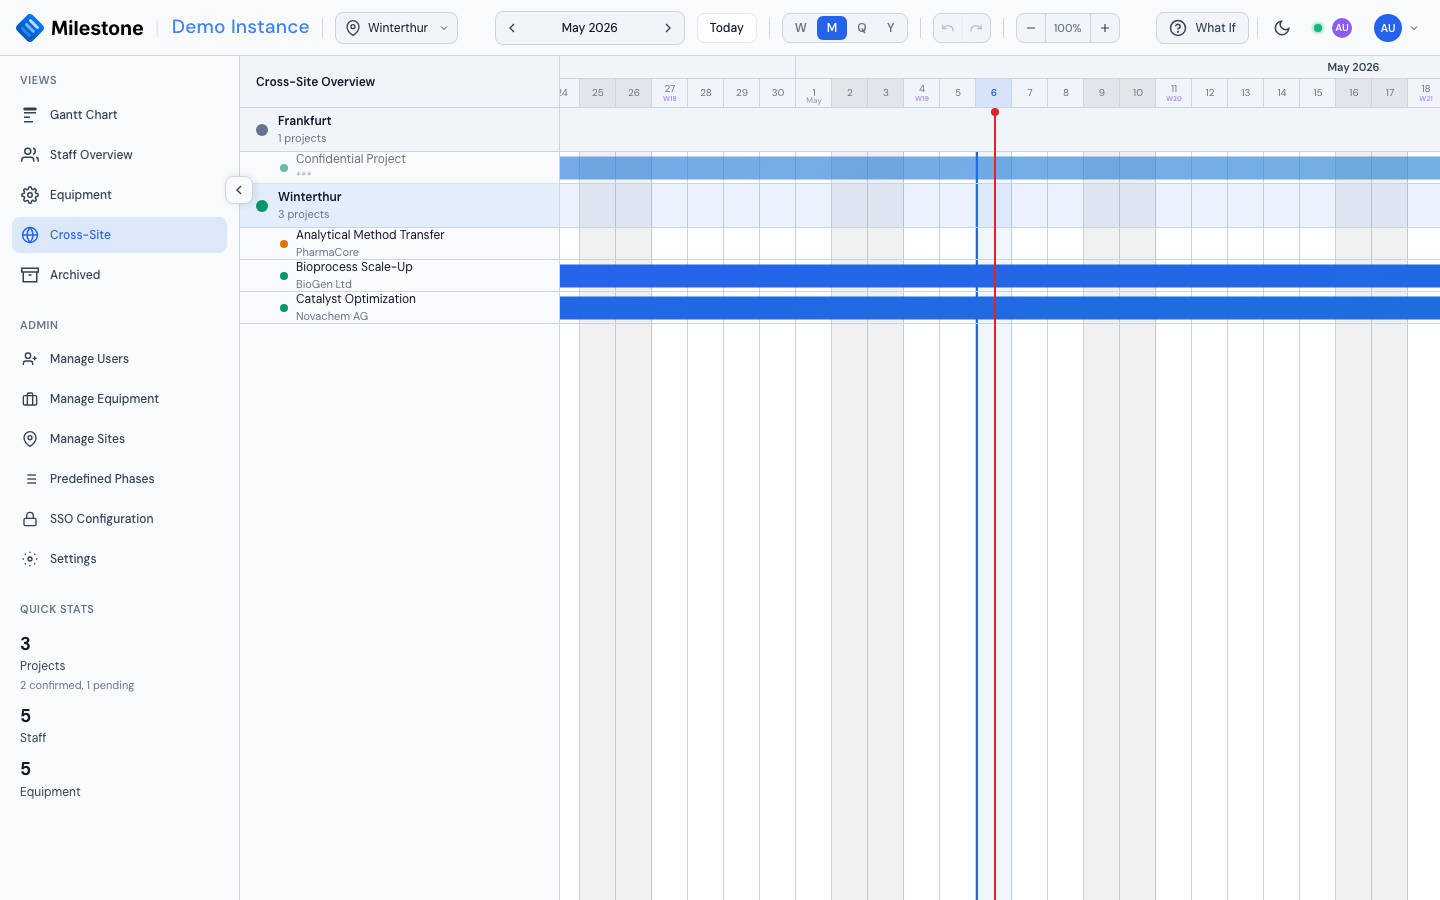
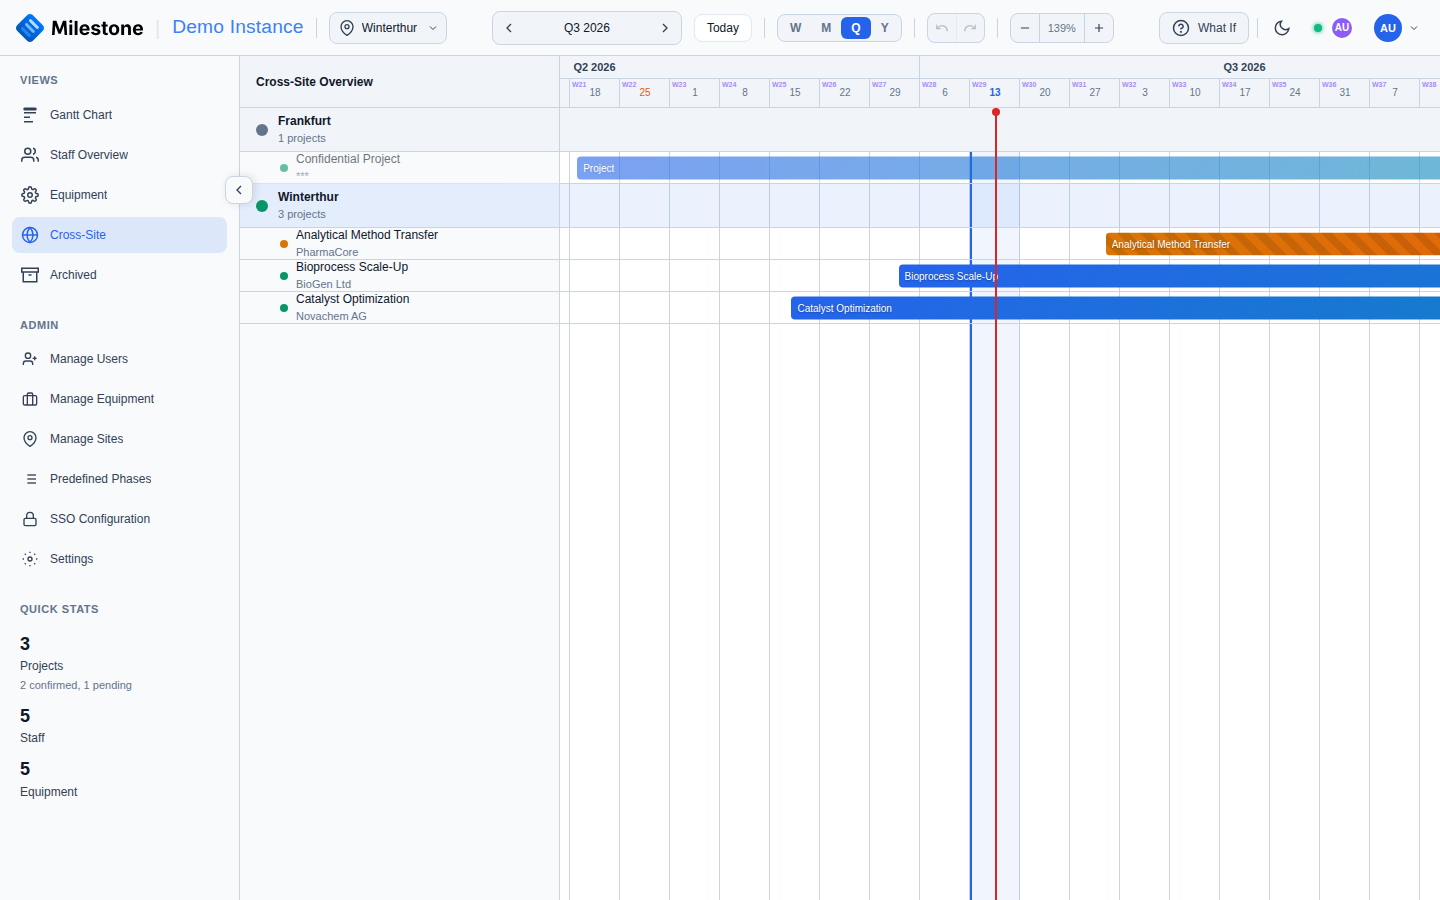
Fix tenant status change 500 for organization-attached tenants
The status endpoint loaded the tenant without eager-loading its
organization; the response builder then lazy-loaded it in async context
and raised MissingGreenlet, so suspending or activating any tenant that
belongs to an organization returned an opaque 500. Re-select with
selectinload after commit, matching the other handlers.

Surfaced by the new admin screenshot script, which now also cleans up
its seeded org attachment even when seeding fails part-way, and uses an
exact "Sign In" match so it doesn't hit "Sign in with Microsoft" when
org SSO is active. Cross-site screenshot re-captured scrolled to today.

diff --git a/scripts/screenshots/capture_admin.py b/scripts/screenshots/capture_admin.py
@@ -80,7 +80,9 @@ def tenant_login(page: Page) -> None:
     if page.locator('input[type="email"]').count() > 0:
         page.fill('input[type="email"]', TENANT_EMAIL)
         page.fill('input[type="password"]', TENANT_PASSWORD)
-        page.click('button:has-text("Sign In")')
+        # Exact match: with organization SSO active the login page also has a
+        # "Sign in with Microsoft" button, which a substring match would hit.
+        page.get_by_role("button", name="Sign In", exact=True).click()
         page.wait_for_load_state("networkidle")
     try:
         page.click('button[aria-label="Switch to light mode"]', timeout=2000)
@@ -153,9 +155,18 @@ def seed_master_state(context: BrowserContext) -> tuple[str, str]:
     return org_id, tenant_id
 
 
-def cleanup_master_state(context: BrowserContext, org_id: str, tenant_id: str) -> None:
-    api(context, "delete", f"/api/admin/organizations/{org_id}/tenants/{tenant_id}")
-    log("[cleanup] demo tenant detached from organization")
+def cleanup_master_state(context: BrowserContext) -> None:
+    """Detach the demo tenant from the screenshot organization (looked up by
+    slug, so this works even after a partial seed)."""
+    orgs = api(context, "get", "/api/admin/organizations")
+    org = next((o for o in orgs if o.get("slug") == ORG_SLUG), None)
+    tenants = api(context, "get", "/api/admin/tenants")
+    tenant = next((t for t in tenants if t.get("slug") == "demo"), None)
+    if org and tenant and tenant.get("organization_id") == org["id"]:
+        api(context, "delete", f"/api/admin/organizations/{org['id']}/tenants/{tenant['id']}")
+        log("[cleanup] demo tenant detached from organization")
+    else:
+        log("[cleanup] nothing to detach")
 
 
 # --------------------------- shots ---------------------------
@@ -229,8 +240,9 @@ def main() -> None:
         admin_page.add_init_script("localStorage.setItem('milestone_theme', 'light')")
         admin_login(admin_page)
 
-        org_id, tenant_id = seed_master_state(admin_ctx)
         try:
+            seed_master_state(admin_ctx)
+
             # Reload so the freshly seeded org/audit data is in the UI.
             admin_page.reload()
             admin_page.wait_for_load_state("networkidle")
@@ -243,7 +255,9 @@ def main() -> None:
             shot_sso_org_precedence(tenant_ctx)
             tenant_ctx.close()
         finally:
-            cleanup_master_state(admin_ctx, org_id, tenant_id)
+            # Runs even after a partial seed — an attached tenant would leave
+            # a "Sign in with Microsoft" button on the login page.
+            cleanup_master_state(admin_ctx)
         browser.close()
 
 

diff --git a/app/routers/admin/tenants.py b/app/routers/admin/tenants.py
@@ -356,7 +356,14 @@ async def update_tenant_status(
             pass
 
     await db.commit()
-    await db.refresh(tenant)
+
+    # Re-select with the organization eager-loaded: tenant_to_response reads
+    # tenant.organization, and a lazy load after commit raises MissingGreenlet
+    # for organization-attached tenants.
+    result = await db.execute(
+        select(Tenant).where(Tenant.id == tenant_id).options(selectinload(Tenant.organization))
+    )
+    tenant = result.scalar_one()
 
     return tenant_to_response(tenant)
 

diff --git a/CHANGELOG.md b/CHANGELOG.md
@@ -11,6 +11,7 @@ and this project adheres to [Semantic Versioning](https://semver.org/).
 - The documentation screenshot pipeline now captures every screenshot in the docs automatically, including the admin portal, all management modals, tags, equipment maintenance blocks, and the read-only tenant SSO form shown when organization SSO applies.
 
 ### Fixed
+- Changing the status of a tenant that belongs to an organization no longer fails with an internal server error in the admin portal.
 - The screenshot demo-data seed script is now safe to re-run: it no longer duplicates vacations or custom columns.
 
 ## [1.0.16] - 2026-07-17
